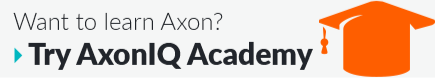
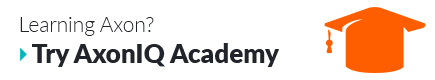
Feature/footer (#3)
* Update academy banner image.
Rename ActionFooter to Footer.
Update Footer implementation.

* Update Link Styling.

* Add links to footer.

* Update link visited.

diff --git a/packages/initializr/src/components/Footer/Footer.svelte b/packages/initializr/src/components/Footer/Footer.svelte
@@ -1,0 +1,136 @@
+<script lang="ts">
+    import { Button, Typography, Link } from '@axoniq-product-ui/core';
+import { rootUrl } from '../../services/rootUrl';
+    import { userSelection } from "../../userSelectionStore";
+    import ActionFooterShareDialog from "../ActionFooterShareDialog/ActionFooterShareDialog.svelte";
+
+let shareVisible = false;
+
+const defaultHeaders = new Headers();
+defaultHeaders.append("Content-Type", "application/zip");
+defaultHeaders.append("Content-Disposition", "attachment");
+
+async function download() {
+    const fileLink = document.createElement('a');
+    fileLink.href = `${rootUrl}starter.zip?${new URLSearchParams($userSelection).toString()}`;
+    fileLink.click();
+}
+
+</script>
+    <div class="footer">
+        <div class="footer__content">
+            <div class="footer__actions">
+                <Button
+                    text="Download"
+                    onClick={() => download()}
+                />
+                <Button
+                    text="Share"
+                    onClick={() => shareVisible = true}
+                    variant="secondary" />
+            </div>
+            <a href="https://academy.axoniq.io/" target="_blank">
+                <img src="/assets/academy-banner-1.png" alt="Academy Link" />
+            </a>
+        </div>
+    </div>
+    <div class="footer__links">
+        <div class="footer__links-content">
+            <div class="footer__links-content-legal">
+                <Typography size="s">AxonIQ © 2021</Typography>
+                <Link size="s" href="https://docs.axoniq.io/reference-guide/" target="_blank" text="Axon Reference Guide" />
+                <Link size="s" href="https://academy.axoniq.io/" target="_blank" text="AxonIQ Academy" />
+                <Link size="s" href="https://discuss.axoniq.io/" target="_blank" text="AxonIQ Discuss" />
+                <Link size="s" href="https://axoniqio.cdn.prismic.io/axoniqio%2Fdc52fae5-3e71-46d1-9bb5-29eb89485294_general+conditions+axoniq_1.0.1.docx-2.pdf" target="_blank" text="General Conditions" />
+                <Link size="s" href="https://axoniq.io/resources/privacy" target="_blank" text="Privacy Policy" />
+            </div>
+
+            <svg width="1" height="22" viewBox="0 0 1 22" fill="none" xmlns="http://www.w3.org/2000/svg">
+                <rect y="0.5" width="1" height="21" fill="#A1A4AA"/>
+            </svg>
+                
+            <div class="footer__links-content-social">
+
+                <Link href="https://www.youtube.com/AxonIQ" target="_blank">
+                    <svg width="16" height="24" viewBox="0 0 16 24" fill="none" xmlns="http://www.w3.org/2000/svg">
+                        <path d="M15.0117 8.16797C14.8477 7.51172 14.3281 6.99219 13.6992 6.82812C12.5234 6.5 7.875 6.5 7.875 6.5C7.875 6.5 3.19922 6.5 2.02344 6.82812C1.39453 6.99219 0.875 7.51172 0.710938 8.16797C0.382812 9.31641 0.382812 11.7773 0.382812 11.7773C0.382812 11.7773 0.382812 14.2109 0.710938 15.3867C0.875 16.043 1.39453 16.5352 2.02344 16.6992C3.19922 17 7.875 17 7.875 17C7.875 17 12.5234 17 13.6992 16.6992C14.3281 16.5352 14.8477 16.043 15.0117 15.3867C15.3398 14.2109 15.3398 11.7773 15.3398 11.7773C15.3398 11.7773 15.3398 9.31641 15.0117 8.16797ZM6.34375 13.9922V9.5625L10.2266 11.7773L6.34375 13.9922Z" fill="#434A56"/>
+                    </svg>
+                </Link>
+
+                <Link href="https://www.linkedin.com/company/axoniq/" target="_blank">
+                    <svg width="13" height="24" viewBox="0 0 13 24" fill="none" xmlns="http://www.w3.org/2000/svg">
+                        <path d="M2.73438 17V8.82422H0.191406V17H2.73438ZM1.44922 7.73047C2.26953 7.73047 2.92578 7.04688 2.92578 6.22656C2.92578 5.43359 2.26953 4.77734 1.44922 4.77734C0.65625 4.77734 0 5.43359 0 6.22656C0 7.04688 0.65625 7.73047 1.44922 7.73047ZM12.2227 17H12.25V12.5156C12.25 10.3281 11.7578 8.63281 9.1875 8.63281C7.95703 8.63281 7.13672 9.31641 6.78125 9.94531H6.75391V8.82422H4.32031V17H6.86328V12.9531C6.86328 11.8867 7.05469 10.875 8.36719 10.875C9.67969 10.875 9.70703 12.0781 9.70703 13.0352V17H12.2227Z" fill="#434A56"/>
+                    </svg>
+                </Link>
+
+                <Link href="https://www.facebook.com/AxonIQ.io/" target="_blank">
+                    <svg width="9" height="24" viewBox="0 0 9 24" fill="none" xmlns="http://www.w3.org/2000/svg">
+                        <path d="M7.62891 12.625L8.01172 10.1094H5.57812V8.46875C5.57812 7.75781 5.90625 7.10156 7 7.10156H8.12109V4.94141C8.12109 4.94141 7.10938 4.75 6.15234 4.75C4.15625 4.75 2.84375 5.98047 2.84375 8.16797V10.1094H0.601562V12.625H2.84375V18.75H5.57812V12.625H7.62891Z" fill="#434A56"/>
+                    </svg>
+                </Link>
+
+                <Link href="https://twitter.com/axon_iq" target="_blank">
+                    <svg width="14" height="24" viewBox="0 0 14 24" fill="none" xmlns="http://www.w3.org/2000/svg">
+                        <path d="M12.5508 8.90625C13.0977 8.49609 13.5898 8.00391 13.9727 7.42969C13.4805 7.64844 12.9062 7.8125 12.332 7.86719C12.9336 7.51172 13.3711 6.96484 13.5898 6.28125C13.043 6.60938 12.4141 6.85547 11.7852 6.99219C11.2383 6.41797 10.5 6.08984 9.67969 6.08984C8.09375 6.08984 6.80859 7.375 6.80859 8.96094C6.80859 9.17969 6.83594 9.39844 6.89062 9.61719C4.51172 9.48047 2.37891 8.33203 0.957031 6.60938C0.710938 7.01953 0.574219 7.51172 0.574219 8.05859C0.574219 9.04297 1.06641 9.91797 1.85938 10.4375C1.39453 10.4102 0.929688 10.3008 0.546875 10.082V10.1094C0.546875 11.5039 1.53125 12.6523 2.84375 12.9258C2.625 12.9805 2.35156 13.0352 2.10547 13.0352C1.91406 13.0352 1.75 13.0078 1.55859 12.9805C1.91406 14.1289 2.98047 14.9492 4.23828 14.9766C3.25391 15.7422 2.02344 16.207 0.683594 16.207C0.4375 16.207 0.21875 16.1797 0 16.1523C1.25781 16.9727 2.76172 17.4375 4.40234 17.4375C9.67969 17.4375 12.5508 13.0898 12.5508 9.28906C12.5508 9.15234 12.5508 9.04297 12.5508 8.90625Z" fill="#434A56"/>
+                    </svg>
+                </Link>
+                
+                <Link href="https://github.com/AxonIQ" target="_blank">
+                    <svg width="14" height="24" viewBox="0 0 14 24" fill="none" xmlns="http://www.w3.org/2000/svg">
+                        <path d="M4.51172 15.6328C4.51172 15.5781 4.45703 15.5234 4.375 15.5234C4.29297 15.5234 4.23828 15.5781 4.23828 15.6328C4.23828 15.6875 4.29297 15.7422 4.375 15.7148C4.45703 15.7148 4.51172 15.6875 4.51172 15.6328ZM3.66406 15.4961C3.66406 15.5508 3.71875 15.6328 3.80078 15.6328C3.85547 15.6602 3.9375 15.6328 3.96484 15.5781C3.96484 15.5234 3.9375 15.4688 3.85547 15.4414C3.77344 15.4141 3.69141 15.4414 3.66406 15.4961ZM4.89453 15.4688C4.8125 15.4688 4.75781 15.5234 4.75781 15.6055C4.75781 15.6602 4.83984 15.6875 4.92188 15.6602C5.00391 15.6328 5.05859 15.6055 5.03125 15.5508C5.03125 15.4961 4.94922 15.4414 4.89453 15.4688ZM6.67188 4.96875C2.89844 4.96875 0 7.86719 0 11.6406C0 14.6758 1.88672 17.2734 4.62109 18.2031C4.97656 18.2578 5.08594 18.0391 5.08594 17.875C5.08594 17.6836 5.08594 16.7539 5.08594 16.1797C5.08594 16.1797 3.17188 16.5898 2.76172 15.3594C2.76172 15.3594 2.46094 14.5664 2.02344 14.375C2.02344 14.375 1.39453 13.9375 2.05078 13.9375C2.05078 13.9375 2.73438 13.9922 3.11719 14.6484C3.71875 15.7148 4.70312 15.4141 5.11328 15.2227C5.16797 14.7852 5.33203 14.4844 5.55078 14.293C4.01953 14.1289 2.46094 13.9102 2.46094 11.2852C2.46094 10.5195 2.67969 10.1641 3.11719 9.67188C3.03516 9.48047 2.81641 8.76953 3.19922 7.8125C3.74609 7.64844 5.08594 8.55078 5.08594 8.55078C5.63281 8.38672 6.20703 8.33203 6.78125 8.33203C7.38281 8.33203 7.95703 8.38672 8.50391 8.55078C8.50391 8.55078 9.81641 7.62109 10.3906 7.8125C10.7734 8.76953 10.5273 9.48047 10.4727 9.67188C10.9102 10.1641 11.1836 10.5195 11.1836 11.2852C11.1836 13.9102 9.57031 14.1289 8.03906 14.293C8.28516 14.5117 8.50391 14.9219 8.50391 15.5781C8.50391 16.4805 8.47656 17.6289 8.47656 17.8477C8.47656 18.0391 8.61328 18.2578 8.96875 18.1758C11.7031 17.2734 13.5625 14.6758 13.5625 11.6406C13.5625 7.86719 10.4727 4.96875 6.67188 4.96875ZM2.65234 14.4023C2.59766 14.4297 2.625 14.5117 2.65234 14.5664C2.70703 14.5938 2.76172 14.6211 2.81641 14.5938C2.84375 14.5664 2.84375 14.4844 2.78906 14.4297C2.73438 14.4023 2.67969 14.375 2.65234 14.4023ZM2.35156 14.1836C2.32422 14.2383 2.35156 14.2656 2.40625 14.293C2.46094 14.3203 2.51562 14.3203 2.54297 14.2656C2.54297 14.2383 2.51562 14.2109 2.46094 14.1836C2.40625 14.1562 2.37891 14.1562 2.35156 14.1836ZM3.22656 15.168C3.19922 15.1953 3.19922 15.2773 3.28125 15.332C3.33594 15.3867 3.41797 15.4141 3.44531 15.3594C3.47266 15.332 3.47266 15.25 3.41797 15.1953C3.36328 15.1406 3.28125 15.1133 3.22656 15.168ZM2.92578 14.7578C2.87109 14.7852 2.87109 14.8672 2.92578 14.9219C2.98047 14.9766 3.03516 15.0039 3.08984 14.9766C3.11719 14.9492 3.11719 14.8672 3.08984 14.8125C3.03516 14.7578 2.98047 14.7305 2.92578 14.7578Z" fill="#434A56"/>
+                    </svg>
+                </Link>
+            </div>
+        </div>
+    </div>
+    
+    <ActionFooterShareDialog bind:visible={shareVisible}/>
+
+
+<style lang="scss">
+    @use "~@axoniq-product-ui/core/stylesheets/colors.scss";
+
+    .footer {
+        background-color: colors.$dove;
+
+        display: grid;
+        grid-template-columns: minmax(20px, 1fr) minmax(auto, 1024px) minmax(20px, 1fr);
+        background-color: colors.$dove;
+        padding: 10px 0;
+    }
+    .footer__content {
+        grid-column: 2;
+        display: flex;
+        justify-content: space-between;
+        align-items: center;
+    }
+    .footer__actions {
+        display: flex;
+        align-items: center;
+        gap: 40px;
+    }
+    .footer__links {
+        background-color: colors.$seal;
+
+        display: grid;
+        grid-template-columns: minmax(20px, 1fr) minmax(auto, 1024px) minmax(20px, 1fr);
+        padding: 8px 0;
+    }
+    .footer__links-content {
+        grid-column: 2;
+        display: flex;
+        justify-content: space-between;
+        align-items: center;
+        gap: 32px;
+    }
+    .footer__links-content-legal {
+        display: flex;
+        gap: 32px;
+        flex-direction: row;
+    }
+    .footer__links-content-social {
+        display: flex;
+        gap: 20px;
+        flex-direction: row;
+    }
+</style>

diff --git a/packages/initializr/src/App.svelte b/packages/initializr/src/App.svelte
@@ -1,6 +1,6 @@
 <script lang="ts">
 import { onMount } from "svelte";
-import ActionFooter from "./components/ActionFooter/ActionFooter.svelte";
+import Footer from "./components/Footer/Footer.svelte";
 import Header from "./components/Header/Header.svelte";
 import HomeDependencies from "./components/HomeDependencies/HomeDependencies.svelte";
 import HomeMetadata from "./components/HomeMetadata/HomeMetadata.svelte";
@@ -94,9 +94,7 @@ $: $userSelection.dependencies = addedDependencies.map(dep => dep.id);
 			</section>
 		</main>
 		<footer>
-			<section class="app__action-footer">
-				<ActionFooter />
-			</section>
+			<Footer />
 		</footer>
 	</div>
 {/if}
@@ -115,7 +113,7 @@ $: $userSelection.dependencies = addedDependencies.map(dep => dep.id);
 		grid-template-areas: 
 			'header'
 			'main'
-			'action-footer';
+			'footer';
 
 		header {
 			grid-area: header;
@@ -142,20 +140,9 @@ $: $userSelection.dependencies = addedDependencies.map(dep => dep.id);
 		}
 
 		footer {
-			grid-area: action-footer;
-			
-			display: grid;
-			grid-template-columns: minmax(20px, 1fr) minmax(auto, 1024px) minmax(20px, 1fr);
-			background-color: colors.$dove;
-			height: 100px;
-			align-items: center;
-			box-shadow: 0px 1px 3px rgba(0, 0, 0, 0.4), 0px 5px 4px rgba(0, 0, 0, 0.1);
-			border-radius: 4px;
+			grid-area: footer;
+			grid-column: 1 / span 4;
 			z-index: 1;
 		}
-		.app__action-footer {
-			grid-area: 1 / 2 / 1 / 3;
-		}
-
 	}
 </style>

diff --git a/packages/core/src/components/Link/Link.svelte b/packages/core/src/components/Link/Link.svelte
@@ -3,18 +3,24 @@
     
         export let href = '';
         export let target = '';
+        export let size: 's' | 'm' | 'l' | 'xl' = 'm';
+        export let text: string;
     </script>
     
     <a
         class="link"
         {href}
         {target}>
-        <Typography
-            center
-            color="rhino"
-            size="s">
-                <slot />
-        </Typography>
+        {#if text}
+            <Typography
+                center
+                color="rhino"
+                {size}>
+                    {text}
+            </Typography>
+        {:else}
+            <slot />    
+        {/if}
     </a>
     
     <style lang="scss">
@@ -27,6 +33,9 @@
                 text-decoration-color: colors.$elephant;
                 text-decoration-thickness: 1px;
                 text-underline-offset: 7px;
+            }
+            &:visited {
+                color: inherit;
             }
         }
     </style>
